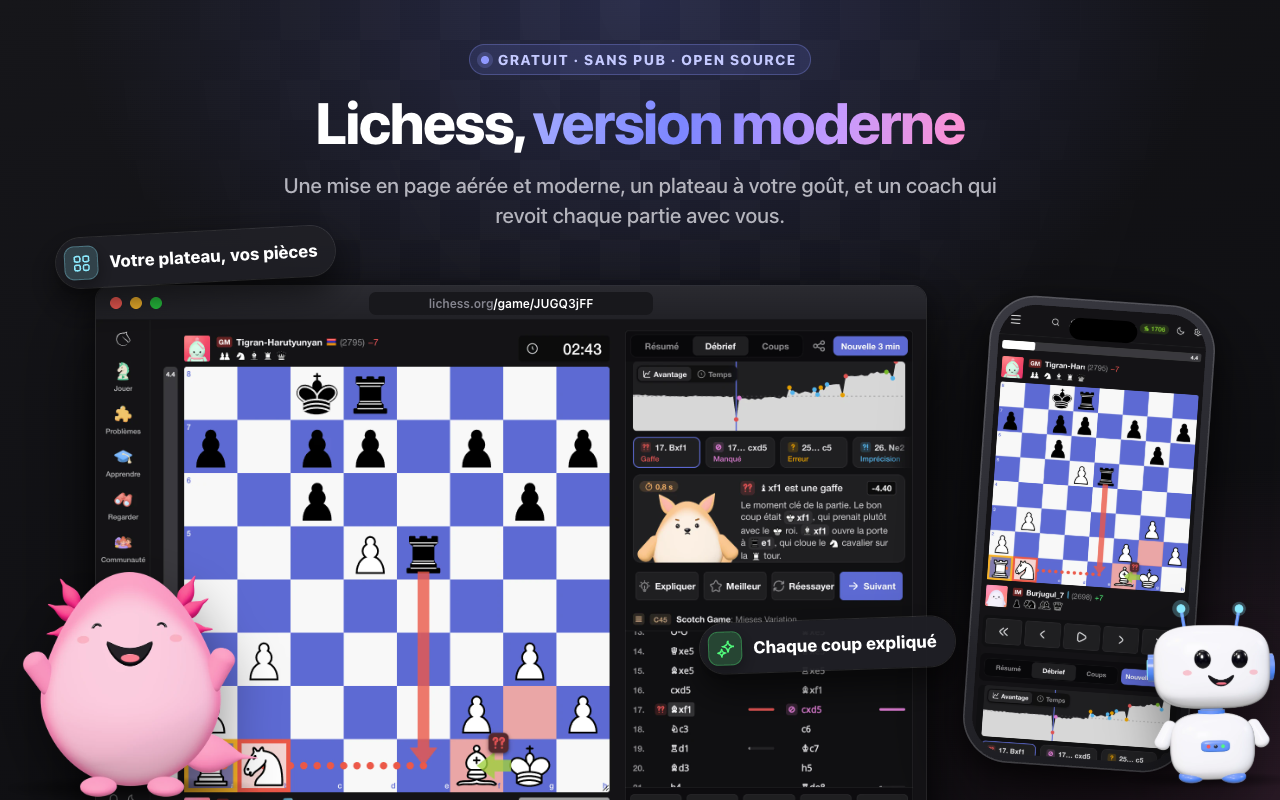
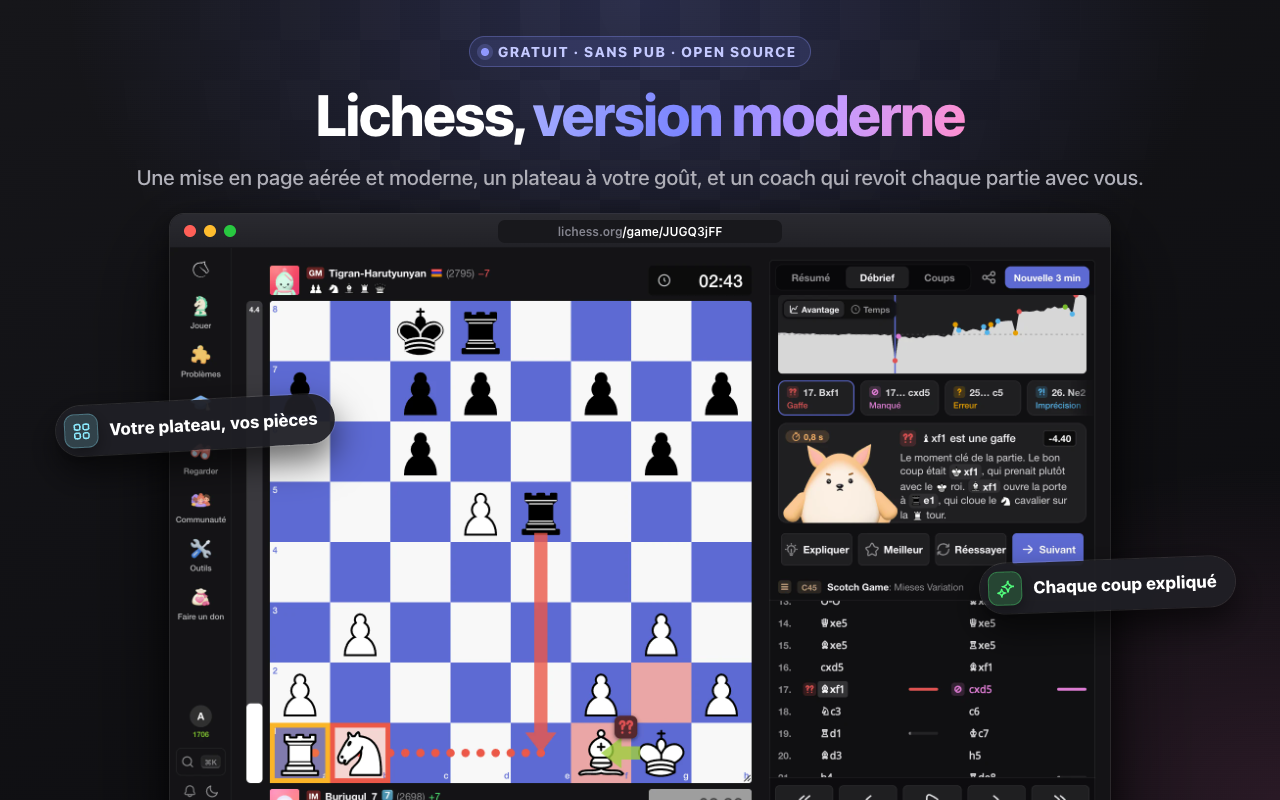
Focus the first store image on the game, without the phone and coaches

diff --git a/store/templates/1-game.html b/store/templates/1-game.html
@@ -16,49 +16,26 @@
   }
 
   header {
-    top: 44px;
-    left: 200px;
-    width: 880px;
-  }
-
-  .sub {
-    max-width: 720px;
+    top: 36px;
+    left: 100px;
+    width: 1080px;
   }
 
   .window {
-    top: 286px;
-    left: 96px;
-    width: 830px;
-  }
-
-  .phone {
-    top: 300px;
-    left: 976px;
-    width: 226px;
-    transform: rotate(4deg);
-  }
-
-  .axolotl {
-    top: 572px;
-    left: 8px;
-    height: 228px;
-  }
-
-  .robot {
-    top: 600px;
-    left: 1128px;
-    height: 188px;
+    top: 214px;
+    left: 170px;
+    width: 940px;
   }
 
   .board {
-    top: 232px;
+    top: 400px;
     left: 56px;
     transform: rotate(-3deg);
   }
 
   .explained {
-    top: 620px;
-    left: 700px;
+    top: 560px;
+    left: 980px;
     transform: rotate(-2deg);
   }
 </style>
@@ -76,13 +53,6 @@
   <img lang="en" src="shots/review-blunder-en.webp">
   <img lang="fr" src="shots/review-blunder-fr.webp">
 </div>
-<div class="phone">
-  <img lang="en" src="shots/phone-review-en.webp">
-  <img lang="fr" src="shots/phone-review-fr.webp">
-</div>
-
-<img class="coach axolotl" src="coaches/coach-4-delight.webp">
-<img class="coach robot" src="coaches/robot-2-happy.webp">
 
 <p class="chip board"><span class="tile cyan i-grid"></span><span lang="en">Your board, your pieces</span><span lang="fr">Votre plateau, vos pièces</span></p>
 <p class="chip explained"><span class="tile green i-sparkles"></span><span lang="en">Every move explained</span><span lang="fr">Chaque coup expliqué</span></p>
